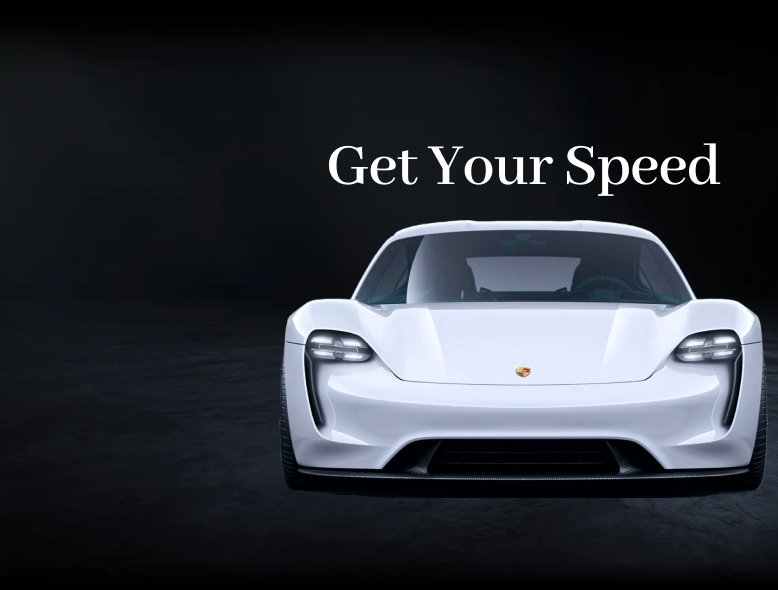
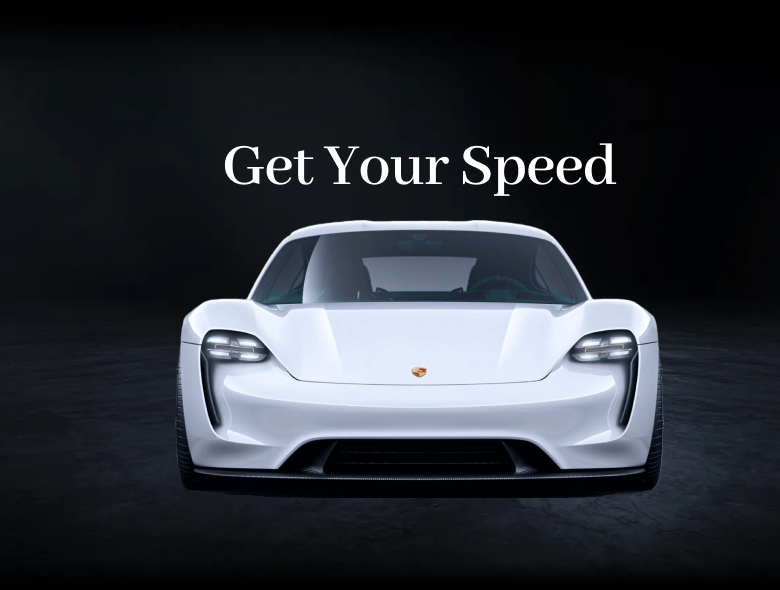
splash page done

Changed region(s): [[0.2159, 0.3661, 1.0, 0.9153], [0.2776, 0.2441, 0.9254, 0.3356]]

diff --git a/lib/ui/home/splash_page.dart b/lib/ui/home/splash_page.dart
@@ -1,3 +1,5 @@
+import 'package:car_showroom/components/constants/AppImages.dart';
+import 'package:car_showroom/components/routes/routes.dart';
 import 'package:flutter/material.dart';
 
 class SplashPage extends StatelessWidget {
@@ -5,6 +7,25 @@ class SplashPage extends StatelessWidget {
 
   @override
   Widget build(BuildContext context) {
-    return Scaffold();
+    Future.delayed(const Duration(seconds: 3)).then((value) =>
+        Navigator.pushNamedAndRemoveUntil(
+            context, RouteName.home, (route) => false));
+    return Scaffold(
+      backgroundColor: Colors.black,
+      body: SizedBox(
+        height: MediaQuery.of(context).size.height,
+        width: MediaQuery.of(context).size.width,
+        child: Center(
+          child: Container(
+            height: 200,
+            width: 200,
+            decoration: const BoxDecoration(
+                shape: BoxShape.circle,
+                image: DecorationImage(
+                    image: AssetImage(AppImages.logo), fit: BoxFit.cover)),
+          ),
+        ),
+      ),
+    );
   }
 }

diff --git a/lib/ui/home/home_page.dart b/lib/ui/home/home_page.dart
@@ -1,3 +1,4 @@
+import 'package:car_showroom/components/constants/AppImages.dart';
 import 'package:flutter/material.dart';
 
 class HomePage extends StatelessWidget {
@@ -5,6 +6,28 @@ class HomePage extends StatelessWidget {
 
   @override
   Widget build(BuildContext context) {
-    return Scaffold();
+    return Scaffold(
+      backgroundColor: Colors.black,
+      body: SizedBox(
+        height: MediaQuery.of(context).size.height,
+        width: MediaQuery.of(context).size.width,
+        child: Column(
+          children: [
+            SafeArea(
+              child: Container(
+                height: MediaQuery.of(context).size.height*0.3,
+                width: double.infinity,
+                decoration: const BoxDecoration(
+                  image: DecorationImage(
+                    image: AssetImage(AppImages.car),
+                    fit: BoxFit.cover
+                  )
+                ),
+              ),
+            )
+          ],
+        ),
+      ),
+    );
   }
 }

diff --git a/lib/main.dart b/lib/main.dart
@@ -13,9 +13,11 @@ class MyApp extends StatelessWidget {
   Widget build(BuildContext context) {
     return MaterialApp(
       onGenerateRoute: AppRoutes.generateRote,
+      debugShowCheckedModeBanner: false,
       initialRoute: RouteName.splash,
       title: 'Flutter Demo',
       theme: ThemeData(
+        backgroundColor: Colors.black,
         primarySwatch: Colors.blue,
       ),
     );

diff --git a/lib/components/constants/AppImages.dart b/lib/components/constants/AppImages.dart
@@ -1,0 +1,4 @@
+class AppImages{
+  static const logo="assets/images/applogo.png";
+  static const car="assets/images/main_img.png";
+}
